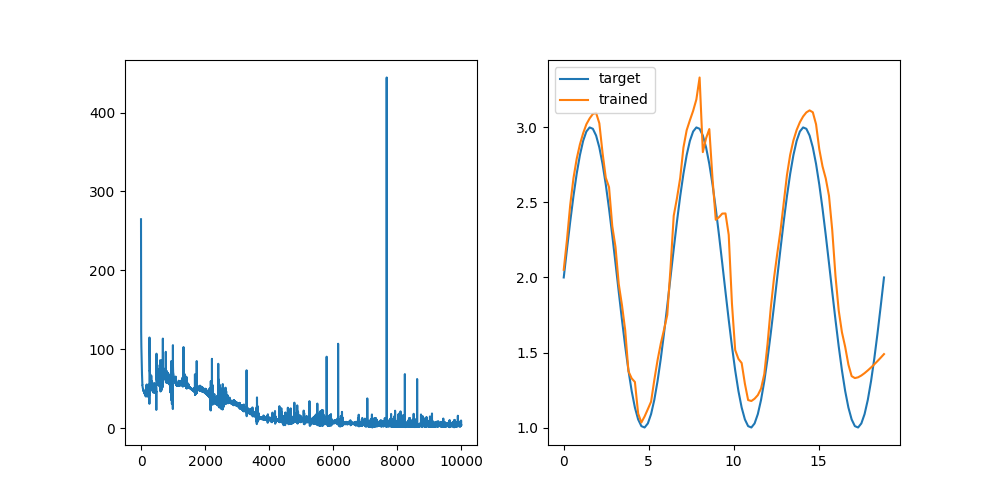
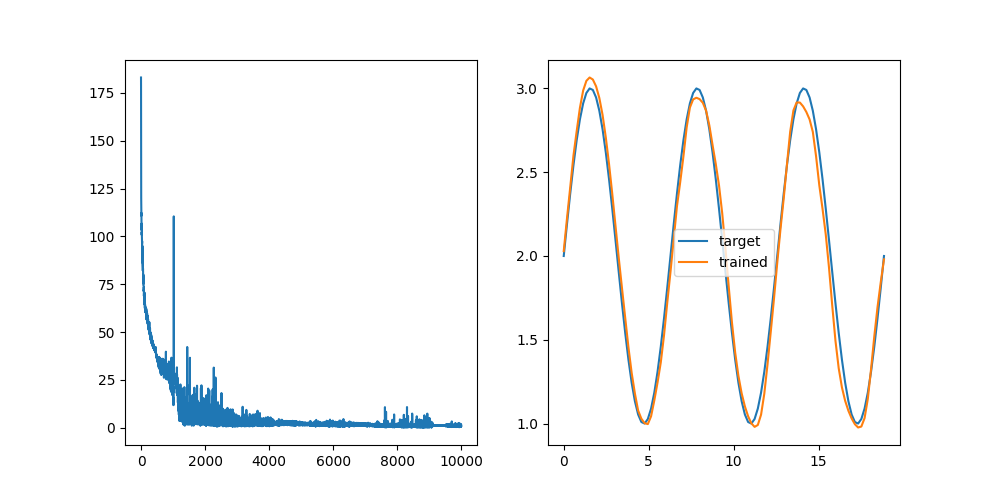
ltc dv

diff --git a/jax_rtrl/models/cells/ltc.py b/jax_rtrl/models/cells/ltc.py
@@ -2,6 +2,7 @@
 
 from dataclasses import field
 from functools import partial
+from tkinter import W
 from typing import Tuple
 
 import flax.linen as nn
@@ -12,7 +13,7 @@ import jax.random as jrand
 from chex import PRNGKey
 from flax.linen import nowrap
 
-from ..wirings import make_mask_initializer
+from jax_rtrl.models.cells.ode import ODECell
 
 
 def ltc_ode(params, h, x):
@@ -42,61 +43,42 @@ def ctrnn_tg(params, h, x):
     return (act - h) * tau
 
 
-class LTCCell(nn.RNNCellBase):
+class LTCCell(ODECell):
     """Simple CTRNN cell."""
 
-    num_units: int
+    # num_units: int
     dt: float = 1.0
-    ode_type: str = "murray"
-    wiring: str | None = "fully_connected"
+    ode_type: str = "hasani"
+    # wiring: str | None = "fully_connected"
     wiring_kwargs: dict = field(default_factory=dict)
 
-    @nn.compact
-    def __call__(self, h, x):  # noqa
-        """Compute euler integration step or CTRNN ODE."""
-        if h is None:
-            h = self.initialize_carry(self.make_rng(), x.shape)
-
+    def _make_params(self, x, mask):
         # Define params
         w_shape = (self.num_units, x.shape[-1] + self.num_units + 1)
-        a = self.param(
-            "a", nn.initializers.lecun_normal(in_axis=-1, out_axis=-2), w_shape
-        )
+        a = self.param("a", nn.initializers.ones, w_shape)
         b = self.param(
             "b", nn.initializers.lecun_normal(in_axis=-1, out_axis=-2), w_shape
         )
         e = self.param(
             "e", nn.initializers.lecun_normal(in_axis=-1, out_axis=-2), w_shape
         )
+        W = self.param(
+            "W", nn.initializers.lecun_normal(in_axis=-1, out_axis=-2), w_shape
+        )
 
-        if self.wiring is not None:
-            mask = jax.lax.stop_gradient(
-                self.variable(
-                    "wiring",
-                    "mask",
-                    make_mask_initializer(self.wiring, **self.wiring_kwargs),
-                    self.make_rng() if self.has_rng("params") else None,
-                    w_shape,
-                    int,
-                ).value
-            )
-            a, b, e = jax.tree.map(lambda W: W * mask, (a, b, e))
-        # Compute updates
-        if self.ode_type == "SA":
-            tau = self.param(
-                "tau", partial(jrand.uniform, minval=1, maxval=10), (self.num_units,)
-            )
-            df_dt = ltc_ode((W, tau), h, x)
-        elif self.ode_type == "NA":
-            W_tau = self.param(
-                "W_tau",
-                nn.initializers.he_normal(in_axis=-1, out_axis=-2),
-                (self.num_units, x.shape[-1] + self.num_units + 1),
-            )
-            df_dt = ctrnn_tg((W, W_tau), h, x)
-        # Euler integration step with dt
-        out = jax.tree.map(lambda a, b: a + b * self.dt, h, df_dt)
-        return out, out
+        super()._make_params(x)
+
+    def _f(self, h, x):  # noqa
+        """Compute euler integration step or CTRNN ODE."""
+        params = self.variables["params"]
+
+        if "mask" in self.variables():
+            params = jax.tree.map(lambda W: W * params["mask"], params)
+        if self.ode_type == "hasani":
+            df_dt = ltc_ode(params, h, x)
+        else:
+            raise ValueError(f"Unknown ode_type: {self.ode_type}")
+        return df_dt
 
     @nowrap
     def initialize_carry(self, rng: PRNGKey, input_shape: Tuple[int, ...]):
@@ -136,11 +118,7 @@ def rtrl_ltc(cell, carry, params, x, ode=ltc_ode):
     return dh_dw, dh_dx
 
 
-def hebbian(pre, post):
-    return jnp.outer(post, pre)
-
-
-def rflo_murray(cell: LTCCell, carry, params, x):
+def rflo_ltc(cell: LTCCell, carry, params, x):
     """Compute jacobian trace for RFLO."""
     h, jp, jx = carry
     W, tau = params.values()

diff --git a/jax_rtrl/models/cells/ode.py b/jax_rtrl/models/cells/ode.py
@@ -23,9 +23,20 @@ class ODECell(nn.RNNCellBase):
         """Compute the derivative of the state."""
         raise NotImplementedError("_f must be implemented in subclasses.")
 
-    def _make_params(self, x, mask):
+    def _make_params(self, x):
         """Create parameters for ODECell."""
-        raise NotImplementedError("make_params must be implemented in subclasses.")
+        # Define params
+        w_shape = (self.num_units, x.shape[-1] + self.num_units + 1)
+        if self.wiring is not None:
+            print("Using wiring:", self.wiring)
+            self.variable(
+                "wiring",
+                "mask",
+                make_mask_initializer(self.wiring, **self.wiring_kwargs),
+                self.make_rng() if self.has_rng("params") else None,
+                w_shape,
+                int,
+            ).value
 
     def solve(self, h, x, mask=None):
         """Solve ODE over time T with step dt."""
@@ -50,23 +61,10 @@ class ODECell(nn.RNNCellBase):
         if h is None:
             h = self.initialize_carry(self.make_rng(), x.shape)
 
-        # Define params
-        w_shape = (self.num_units, x.shape[-1] + self.num_units + 1)
-        if self.wiring is not None:
-            mask = jax.lax.stop_gradient(
-                self.variable(
-                    "wiring",
-                    "mask",
-                    make_mask_initializer(self.wiring, **self.wiring_kwargs),
-                    self.make_rng() if self.has_rng("params") else None,
-                    w_shape,
-                    int,
-                ).value
-            )
-        self._make_params(x, mask if self.wiring is not None else None)
+        self._make_params(x)
 
         # Solve
-        out = self.solve(h, x, mask if self.wiring is not None else None)
+        out = self.solve(h, x)
         return out, out
 
     @property

diff --git a/jax_rtrl/models/cells/ctrnn.py b/jax_rtrl/models/cells/ctrnn.py
@@ -71,7 +71,7 @@ class CTRNNCell(ODECell):
     # wiring_kwargs: dict = field(default_factory=dict)
     tau_min: float = 1.0  # minimum value for tau used in ctrnn_ode_tau_softplus
 
-    def _make_params(self, x, mask=None):
+    def _make_params(self, x):
         # Define params
         w_shape = (self.num_units, x.shape[-1] + self.num_units + 1)
 
@@ -84,8 +84,8 @@ class CTRNNCell(ODECell):
             return jnp.concatenate([_w_in, _w_rec, _bias], axis=-1)
 
         W = self.param("W", _initializer, w_shape)
-        if mask is not None:
-            W = mask * W
+        if "mask" in self.variables:
+            W = jax.lax.stop_gradient(self.variables()["mask"]) * W
 
         if self.ode_type in ["murray", "tau_softplus"]:
             tau = self.param(
@@ -131,8 +131,7 @@ def rtrl_ctrnn(cell, carry, params, x, ode=ctrnn_ode):
 
     # immediate jacobian (this step)
     W, tau = params.values()
-    df_dw, df_dh, df_dx = jax.jacrev(ode, argnums=[0, 1, 2])((W, tau), h, x)
-    df_dw = {"W": df_dw[0], "tau": df_dw[1]}  # , "b": df_dw[1]
+    df_dw, df_dh, df_dx = jax.jacrev(ode, argnums=[0, 1, 2])(params, h, x)
 
     # dh/dh = d(h + f(h) * dt)/dh = I + df/dh * dt
     dh_dh = df_dh * cell.dt  # + jnp.identity(cell.num_units)

diff --git a/jax_rtrl/supervised/supervised_offline.py b/jax_rtrl/supervised/supervised_offline.py
@@ -2,12 +2,11 @@ import os
 import sys
 
 import flax.linen as nn
-import jax
-import jax.numpy as jnp
 import jax.random as jrand
 import matplotlib.pyplot as plt
-import numpy as np
 import optax
+
+from jax_rtrl.models.seq_models import RNNEnsemble, RNNEnsembleConfig
 
 sys.path.append(os.path.join(os.path.dirname(__file__), ".."))
 from jax_rtrl.models.jax_util import mse_loss
@@ -21,9 +20,23 @@ key = jrand.PRNGKey(0)
 key, key_model, key_data, key_train = jrand.split(key, 4)
 x, y = sine()
 
+config = RNNEnsembleConfig(
+    model_name="bptt",
+    layers=(32,) * 2,
+    out_size=1,
+    num_modules=1,
+    num_blocks=1,
+    out_dist="Deterministic",
+    rnn_kwargs={},
+    output_layers=None,
+    fa_type="bp",
+    method="linear",
+)
+
+
 model = nn.Sequential(
     [
-        nn.RNN(CTRNNCell(32)),
+        nn.RNN(RNNEnsemble(config)),
         FADense(1),
     ]
 )

diff --git a/jax_rtrl/models/cells/__init__.py b/jax_rtrl/models/cells/__init__.py
@@ -1,8 +1,11 @@
 from jax_rtrl.models.cells.ctrnn import CTRNNCell, OnlineCTRNNCell
 from jax_rtrl.models.cells.lru import OnlineLRULayer
+from jax_rtrl.models.cells.ltc import LTCCell
 from jax_rtrl.models.s5 import StackedEncoderModel
+
 ONLINE_CELL_TYPES = {
     "rflo": OnlineCTRNNCell,
+    "rtrl": OnlineCTRNNCell,
     "lru_rtrl": OnlineLRULayer,
     "s5_rtrl": StackedEncoderModel,
 }
@@ -10,9 +13,9 @@ ONLINE_CELL_TYPES = {
 
 CELL_TYPES = {
     "bptt": CTRNNCell,
-    "rtrl": OnlineCTRNNCell,
     "lru": OnlineLRULayer,
     "s5": StackedEncoderModel,
+    "ltc": LTCCell,
     # "linear": StackedEncoderModel, # TODO: homogenize StackedEncoderModel and MultiLayerRNN
     # "gru": StackedEncoderModel,
     **ONLINE_CELL_TYPES,

diff --git a/jax_rtrl/supervised/supervised_online.py b/jax_rtrl/supervised/supervised_online.py
@@ -27,8 +27,9 @@ class Model(nn.Module):
     hidden_size: int = 32
     num_blocks: int = 1
     num_modules: int = 1
+    num_layers: int = 1
     dt: float = 1.0
-    model_name: str = "rflo"
+    model_name: str = "ltc"
     ensemble_method: str = "linear"
 
     def setup(self):
@@ -39,7 +40,7 @@ class Model(nn.Module):
         self.rnn = RNNEnsemble(
             RNNEnsembleConfig(
                 model_name=self.model_name,
-                layers=(self.hidden_size,) * 2,
+                layers=(self.hidden_size,) * self.num_layers,
                 out_size=self.outsize,
                 num_modules=self.num_modules,
                 num_blocks=self.num_blocks,
